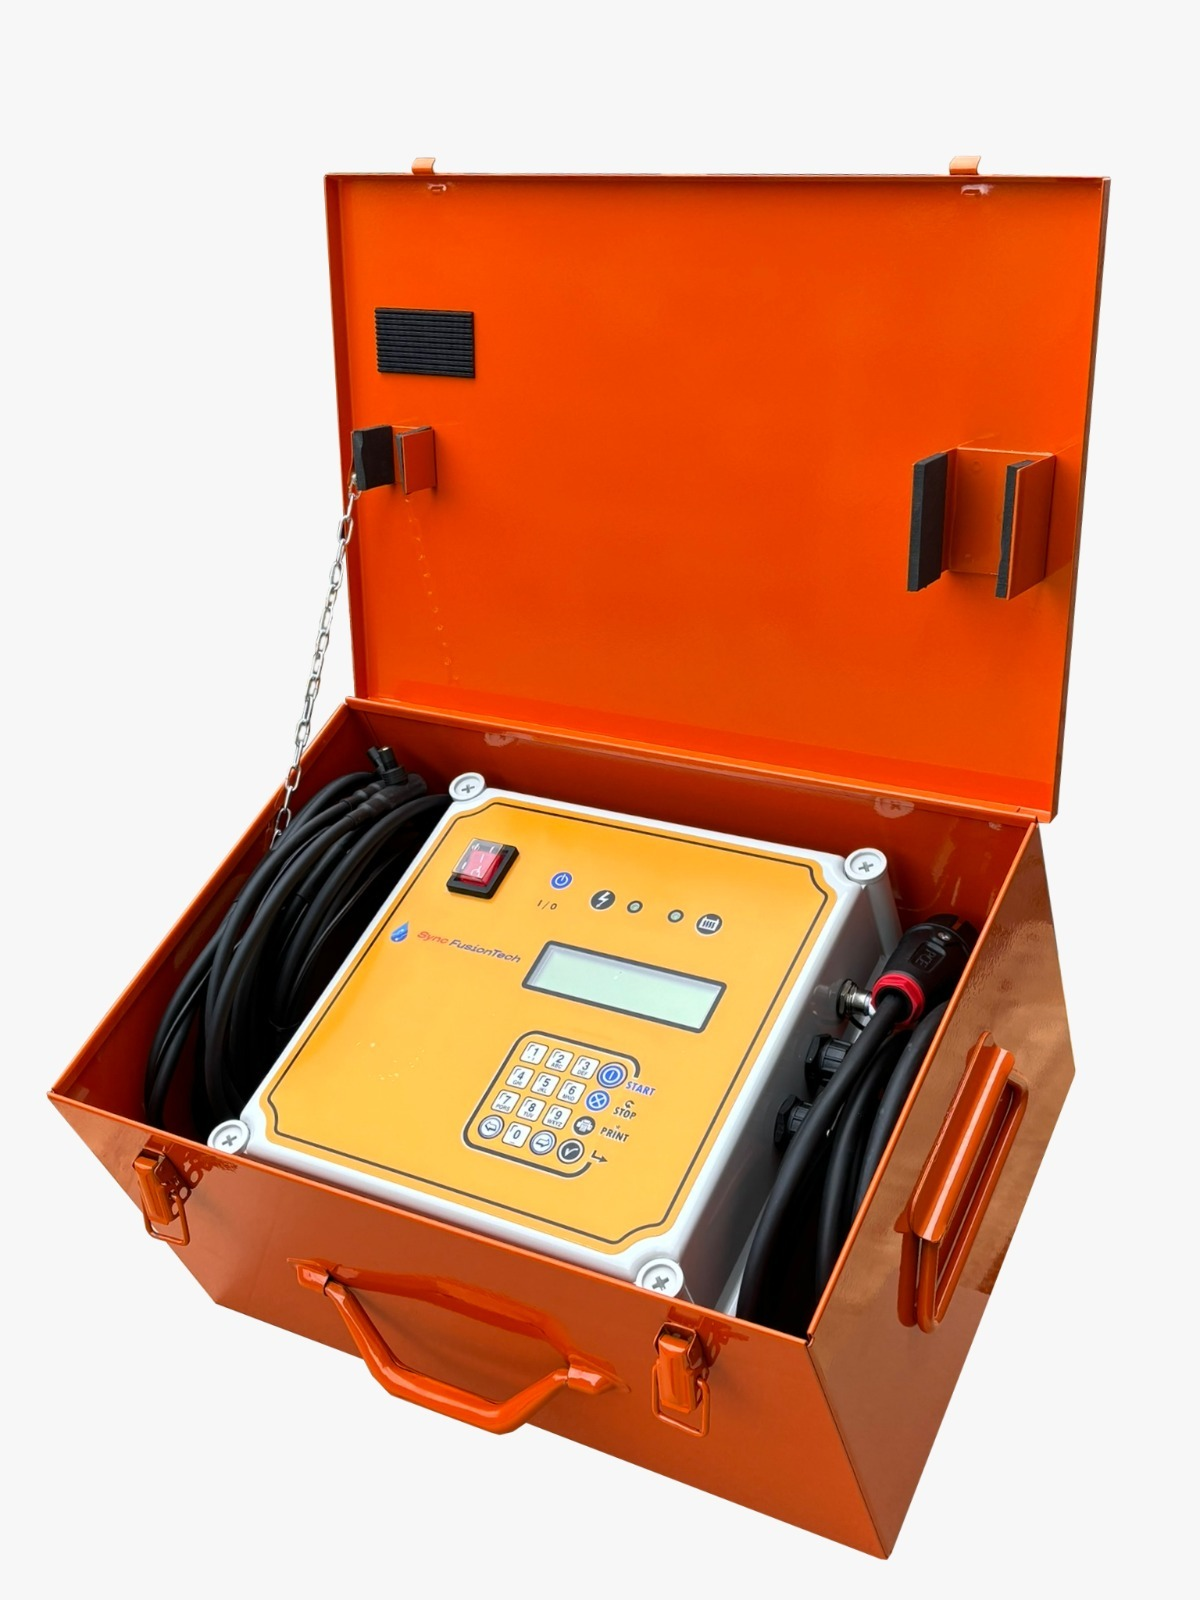
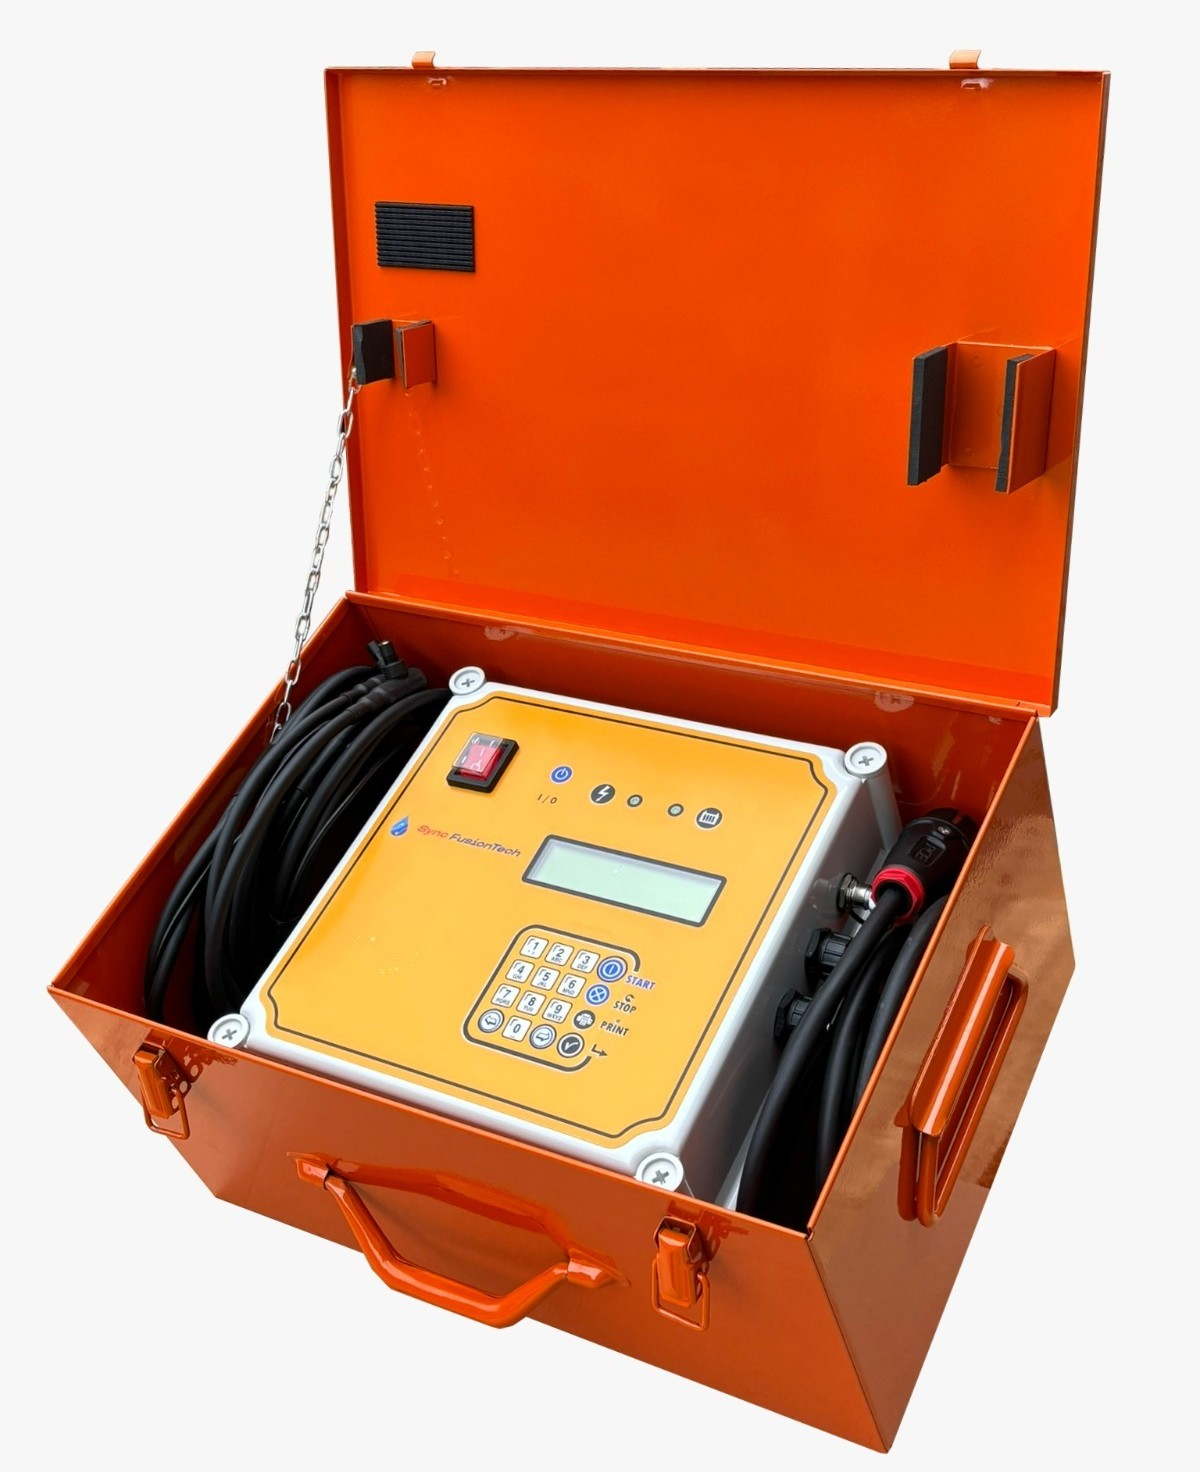
Product Page Updation

diff --git a/src/data/rawProducts.ts b/src/data/rawProducts.ts
@@ -28,7 +28,7 @@ import domeCamera from '../assets/products/dome-camera.jpg';
 import highSpeedCamera from '../assets/products/high-speed-camera.jpg';
 import ptzCamera from '../assets/products/ptz-camera.jpg';
 import bigJointingMachines from '../assets/products/big-jointing-machines.jpg';
-import buttFusionJointing from '../assets/products/butt-fusion-jointing.jpg';
+import weldingMachine from '../assets/products/welding_machine.jpg';
 import electrofusionJointingMachine from '../assets/products/electrofusion.jpeg';
 import hdpeFittings from '../assets/products/hdpe-fittings.jpg';
 import chlorinator from '../assets/products/chlorinator.png';
@@ -471,20 +471,23 @@ export const RAW_SUB_PRODUCTS = [
         ]
       },
       {
-        name: 'Butt Fusion Jointing',
-        image: buttFusionJointing,
+        name: 'Welding Machine ZEEN-3000 PLUS',
+        image: weldingMachine,
         datasheetUrl: '/datasheets/butt-fusion-welding.pdf',
-        paragraphs: ['HDPE Butt Fusion Welding Machine – Application & Features: Suitable for butt fusion welding Of plastic pipes and fittings made Of PE PP. and PVDF in construction site or workshop.'],
+        paragraphs: [
+          'The device supports fittings used in the plumbing and gas industry. It allows four programming modes: manual, scanner, barcode manual, as last. The welder\'s aluminium housing and built-in fan facilitate transformer cooling.',
+          'A plywood transport box is included to protect against mechanical damage and to ensure convenient transport and storage of the machine. Simple and clear operation of the welding machine control programme. Possibility to connect a barcode scanner (optional accessory). The temperature measurement system of the transformer protects the welder from overheating.'
+        ],
         bullets: [
-          'PE, PP, PVDF compatible',
-          'Digital temperature control',
-          'Electric facer cutter',
-          'Size range: 50-250mm',
-          'Portable design'
+          'Four programming modes: manual, scanner, barcode manual',
+          'Aluminium housing with built-in fan',
+          'Temperature measurement system prevents overheating',
+          'Plywood transport box included',
+          'Optional barcode scanner connectivity'
         ]
       },
       {
-        name: 'Electrofusion Jointing Machine',
+        name: 'Electrofusion welding Machine',
         image: electrofusionJointingMachine,
         datasheetUrl: '/datasheets/electrofusion-welding.pdf',
         paragraphs: ['Electrofusion welding machines are universal devices used to connect thermoplastic pipes and fittings (PE PP PVDF) resistance method using electrofusion fittings.'],
